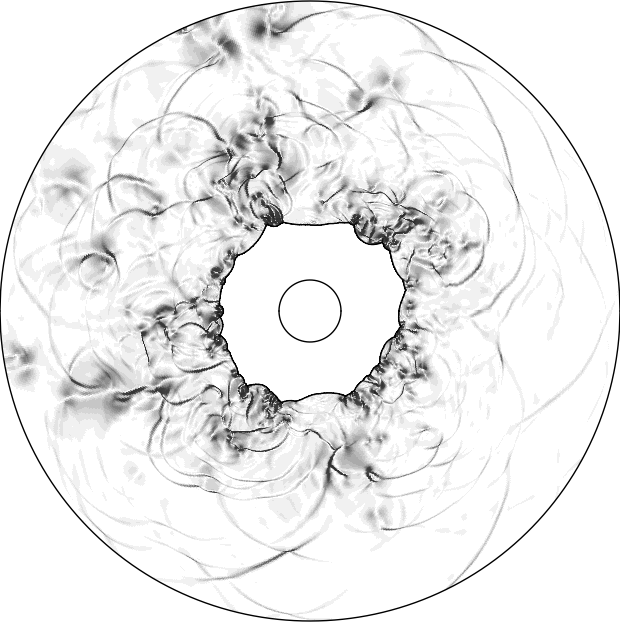
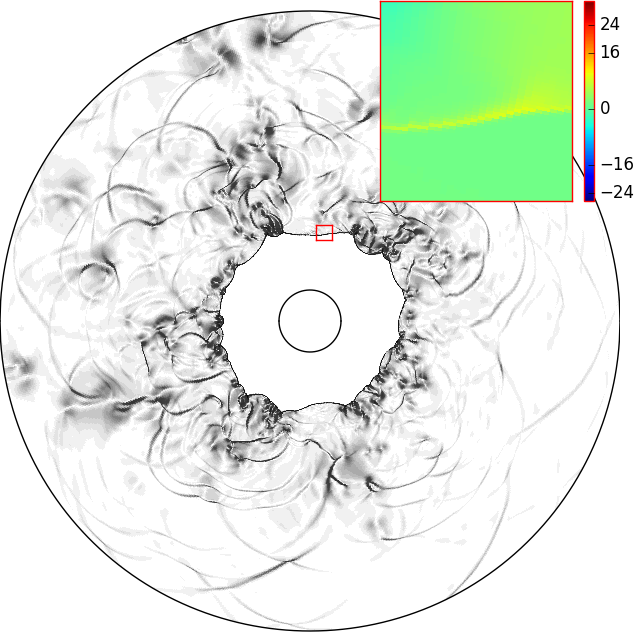
more changes

diff --git a/numerics_paper/version2/numerical_chj.tex b/numerics_paper/version2/numerical_chj.tex
@@ -1163,7 +1163,7 @@ In this case, the boundary conditions are given by \eqref{bcs_chj} with
 The initial condition is a symmetric CHJ located at $\sqrt{x^2+y^2}=0.3$, generated as described in \S \ref{sec:steady_chj}.
 In Figure \ref{fig:chj_r1_roe}, we show the solution at different times using
 method \eqref{second-order_via_fluct} with Roe's Riemann solver.
-The solution clearly develops carbuncle instabilities.
+The solution clearly develops carbuncle instabilities, which are evident in the inset figure at $t=3$.
 In Figure \ref{fig:chj_r1_diff}, we show solutions at $t=3$ for
 Rusanov's, HLLEMCC, and the blended Riemann solvers.
 For this test case, these three solvers give qualitatively similar solutions,
@@ -1174,17 +1174,17 @@ all of which are free from carbuncles.
   \centering
   \subfloat[Solution at (left) $t=1$, (middle) $t=1.5$ and (right) $t=3$ using Roe's Riemann solver.\label{fig:chj_r1_roe}]{
     \begin{tabular}{ccc} 
-      \includegraphics[scale=0.38]{figures/chj_r1_roe_p1.png} &
-      \includegraphics[scale=0.38]{figures/chj_r1_roe_p2.png} &
-      \includegraphics[scale=0.38]{figures/chj_r1_roe_p3.png}
+      \includegraphics[scale=0.3]{figures/chj_r1_roe_p1.png} &
+      \includegraphics[scale=0.3]{figures/chj_r1_roe_p2.png} &
+      \includegraphics[scale=0.3]{figures/chj_r1_roe_p3.png}
     \end{tabular}
   }
   
   \subfloat[Solution at $t=3$ using (left) Rusanov's, (middle) HLLEMCC and (right) the blended solvers.\label{fig:chj_r1_diff}]{
     \begin{tabular}{ccc}
-      \includegraphics[scale=0.38]{figures/chj_r1_llf_p3.png} &
-      \includegraphics[scale=0.38]{figures/chj_r1_hllemcc_p3.png} &
-      \includegraphics[scale=0.38]{figures/chj_r1_blended_p3.png}
+      \includegraphics[scale=0.3]{figures/chj_r1_llf_p3.png} &
+      \includegraphics[scale=0.3]{figures/chj_r1_hllemcc_p3.png} &
+      \includegraphics[scale=0.3]{figures/chj_r1_blended_p3.png}
     \end{tabular}
     }
     \caption{CHJ with boundary conditions given by \eqref{bcs_chj} and \eqref{bcs_chj_r1}.    
@@ -1203,13 +1203,14 @@ We now consider a more aggresive regime. The boundary conditions are given by \e
 Again we follow \S \ref{sec:steady_chj} to generate an initial condition with a symmetric CHJ located at
 $\sqrt{x^2+y^2}=0.3$. In Figure \ref{fig:chj_r2_roe}, we show the solution at different times using method
 \eqref{second-order_via_fluct} with Roe's Riemann solver. Again the solution develops
-carbuncle instabilities. For this regime, we obtained negative values for the water height with
+carbuncle instabilities, which are clearly seen in the inset figure at $t=3$.
+For this regime, we obtained negative values for the water height with
 the HLLEMCC solver, which lead to failure of the solver. Therefore, we only show results with
 Rusanov's and the blended solvers, see Figure \ref{fig:chj_r2_diff}. With both solvers, the carbuncles are avoided.
 %
 In contrast to what we observed in the first test case, in this situation the Froude number is
 high enough that numerical perturbations start to trigger a response around the CHJ
-(see the middle and right panels of Figure \ref{fig:chj_r2_diff}).
+(see the right panel of Figure \ref{fig:chj_r2_diff}).
 For the resolution that we consider, this behavior is dissipated by the extra numerical viscosity introduced by
 Rusanov's solver (see the left panel of Figure \ref{fig:chj_r2_diff}).
 In Figure \ref{fig:chj_r2_later}, we show the solution at a later time considering the same solvers as before.
@@ -1237,21 +1238,17 @@ Clearly, using Rusanov's solver dissipates the physical response to these numeri
   \caption{CHJ with boundary conditions given by \eqref{bcs_chj} and \eqref{bcs_chj_r2}. 
     We consider method \eqref{second-order_via_fluct} with different Riemann solvers.
     In all cases we show the Schlieren plot for the water height $h$.
-    %The color scale in the plots go from (blue) $0.45$ to (red) $4.5$,
-    %which corresponds to the minimum and maximum values of the momentum at $t=0$.
-  }
+    In (a), for the plot that corresponds to $t=0.11$, we zoom close to the jump and plot the y-momentum.}
 \end{figure}
 
 \begin{figure}[!h]
   \centering
-  \subfloat[$t=5$]{
     \includegraphics[scale=0.3]{figures/chj_r2_rusanov_t5p0.png} \quad
-    \includegraphics[scale=0.5]{figures/cross.png} \quad
-    \includegraphics[scale=0.3]{figures/chj_r2_blended_t5p0.png}
-  }
+    %\includegraphics[scale=0.5]{figures/cross.png} \quad
+    \quad \includegraphics[scale=0.3]{figures/chj_r2_blended_t5p0.png}
   \caption{CHJ at $t=5$ with boundary conditions given by \eqref{bcs_chj} and \eqref{bcs_chj_r2}. 
-    We consider method \eqref{second-order_via_fluct} with (left) Rusanov's,
-    (middle) HLLEMCC and (right) the blended solvers. 
+    We consider method \eqref{second-order_via_fluct} with (left) Rusanov's
+    and (right) the blended solvers. 
     In all cases we superimpose the Schlieren plot for the water height $h$
     an the magnitude of the momentum with a uniform (white-to-blue) colormap. 
     The scale for colormap is (white) $0.45$ to (blue) $4.5$, 
@@ -1277,7 +1274,11 @@ may trigger physical instabilities, which we want to preserve. At the same time,
 do not want the solution to develop carbuncle instabilities.
 In figures \ref{fig:chj_r2wp_rusanov} and \ref{fig:chj_r2wp_blended}, we show the solution
 at different times considering method \eqref{second-order_via_fluct} with Rusanov's and
-the blended Riemann solvers, respectively. 
+the blended Riemann solvers, respectively.
+In the right panel of Figure \ref{fig:chj_r2wp_blended}, we show an inset figure 
+with the y-momentum. Note that even though the solution is highly unstable 
+(with the blended Riemann solver), no visible carbuncle instabilities are developed. 
+
 
 \begin{figure}[!h]
   \centering
@@ -1300,8 +1301,9 @@ the blended Riemann solvers, respectively.
     \end{tabular}
   }
   \caption{CHJ at different times with a random perturbation at the inflow boundary.
-    We consider method \eqref{second-order_via_fluct} with (a) Roe's and (b) the blended
-    Riemann solvers. In all cases we show the Schlieren plot for the water height $h$.}
+    We consider method \eqref{second-order_via_fluct} with different Riemann solvers. 
+    In all cases we show the Schlieren plot for the water height $h$.
+    In (b), for the plot that corresponds to $t=5$, we zoom close to the jump and plot the y-momentum.}
 \end{figure}
     
 %\subsection{Regime 1: midly unstable flow}
